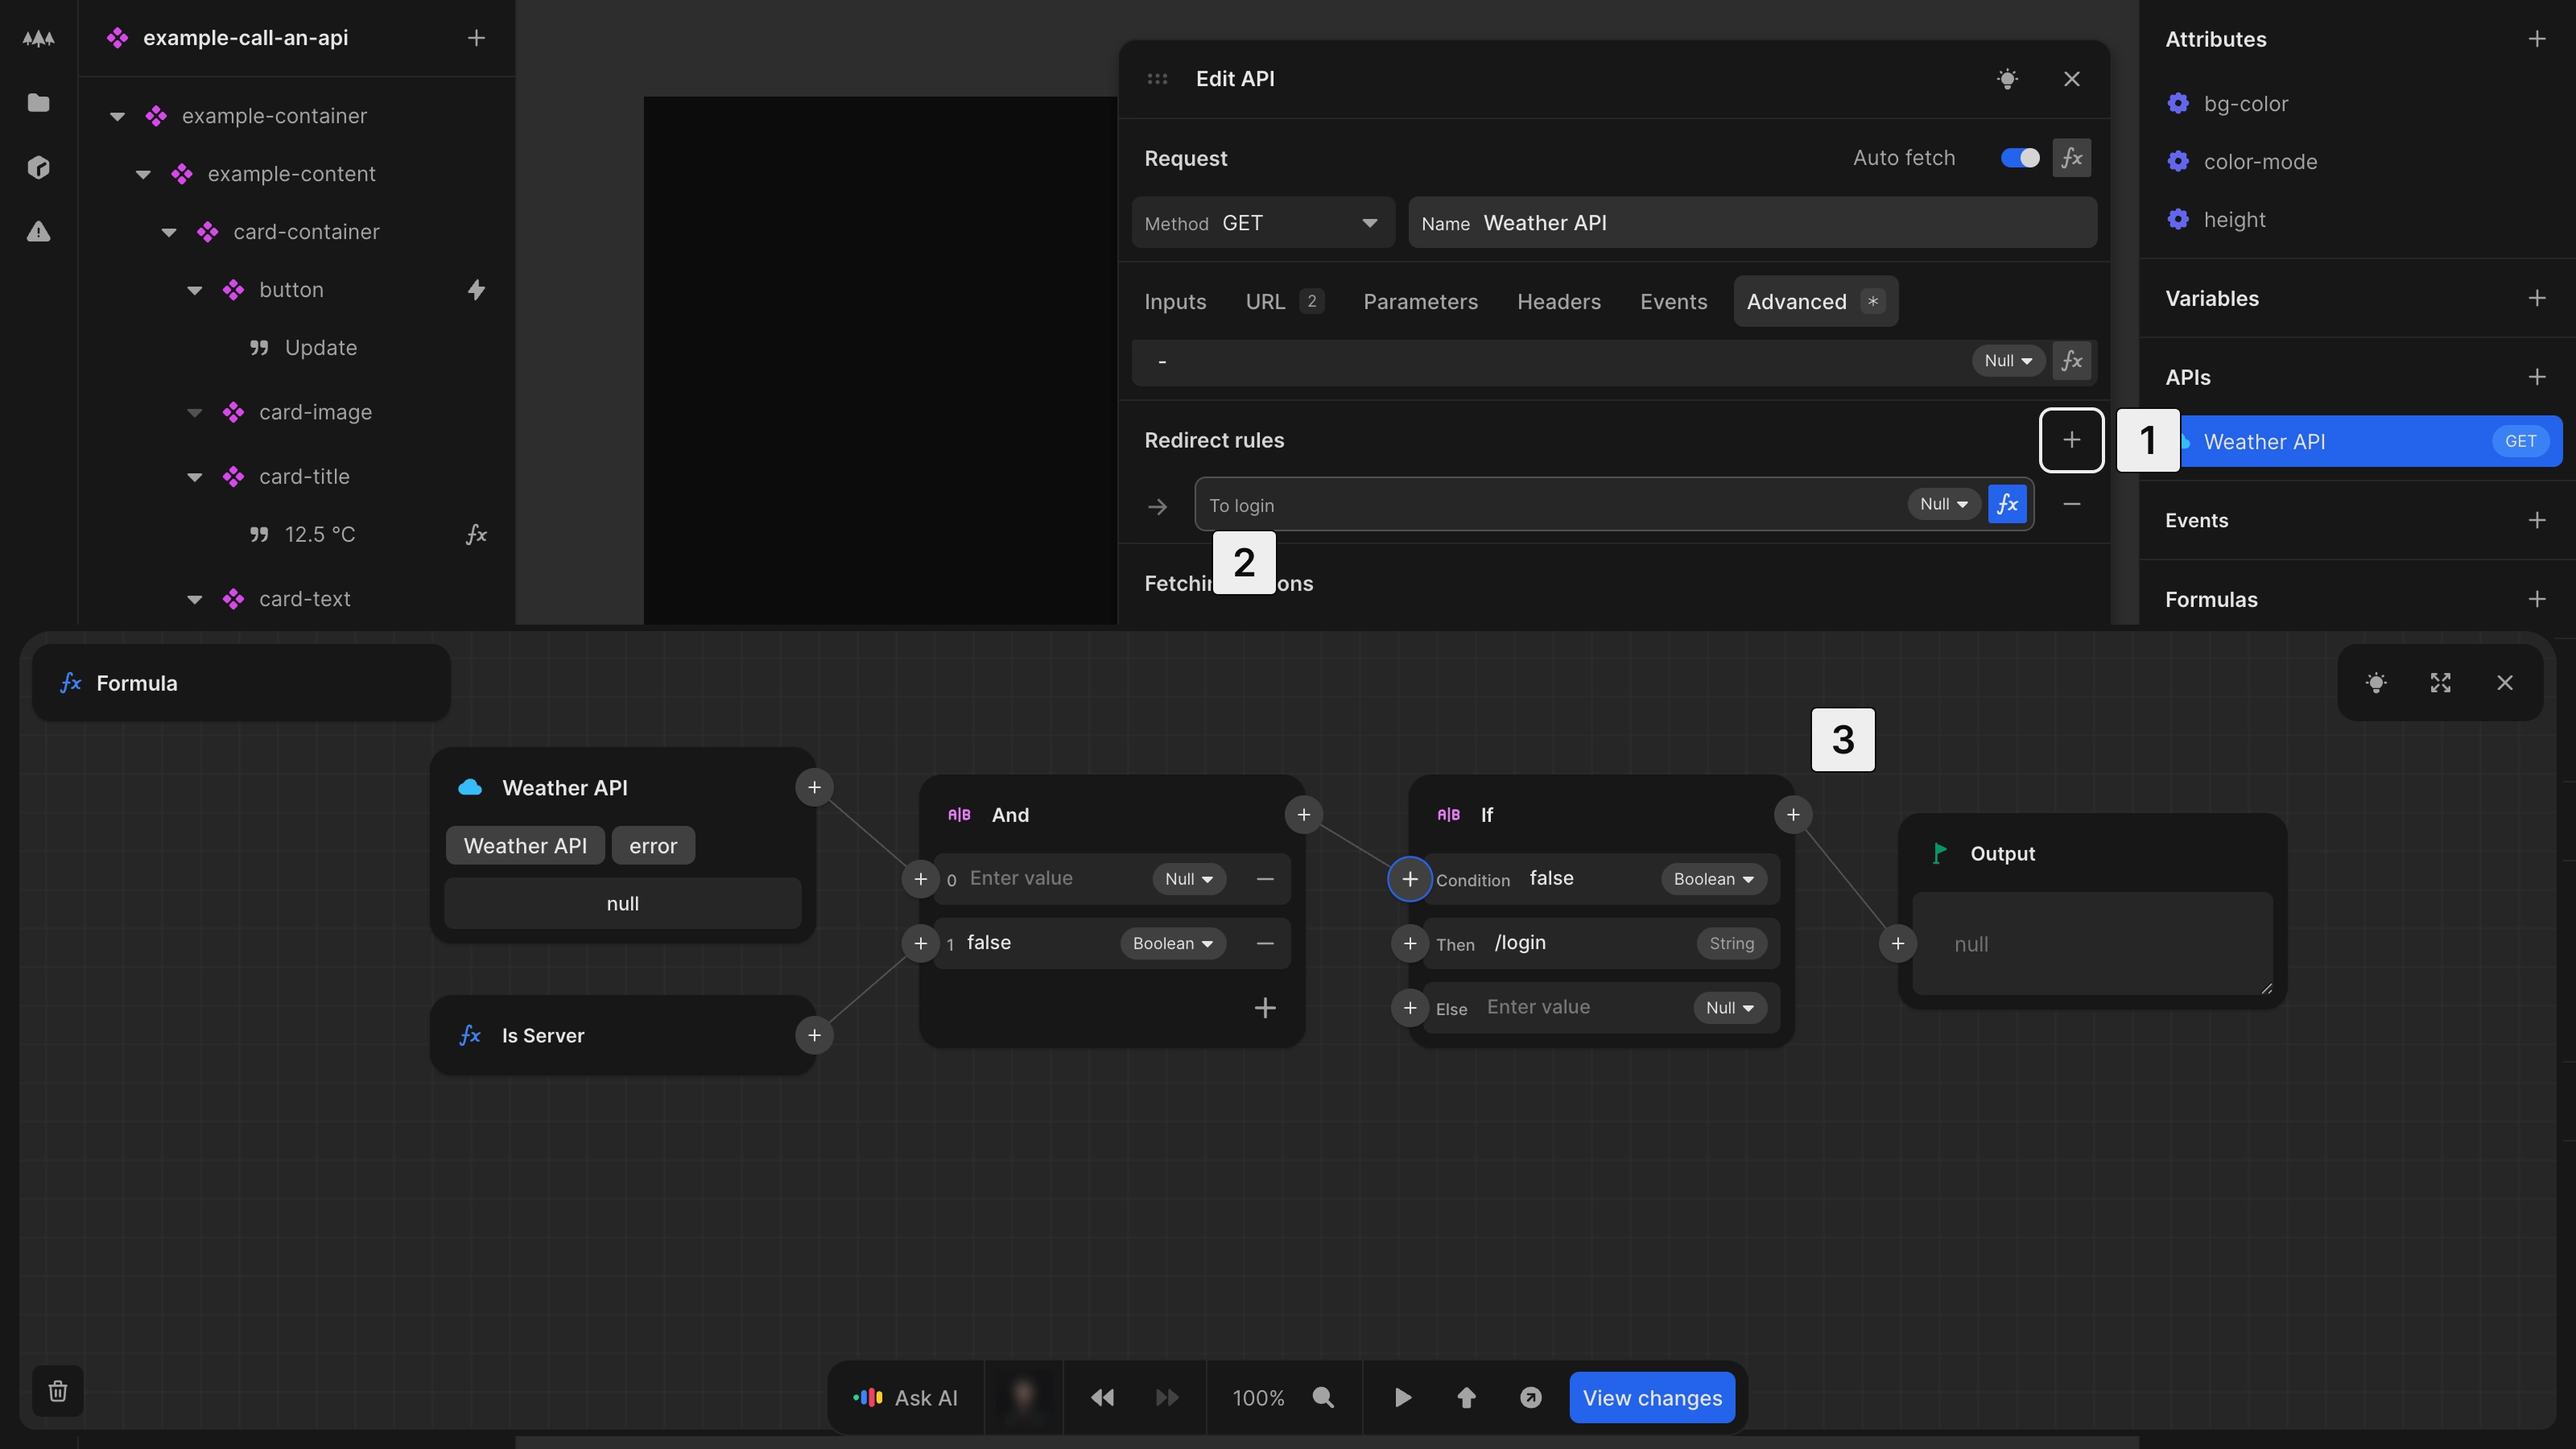
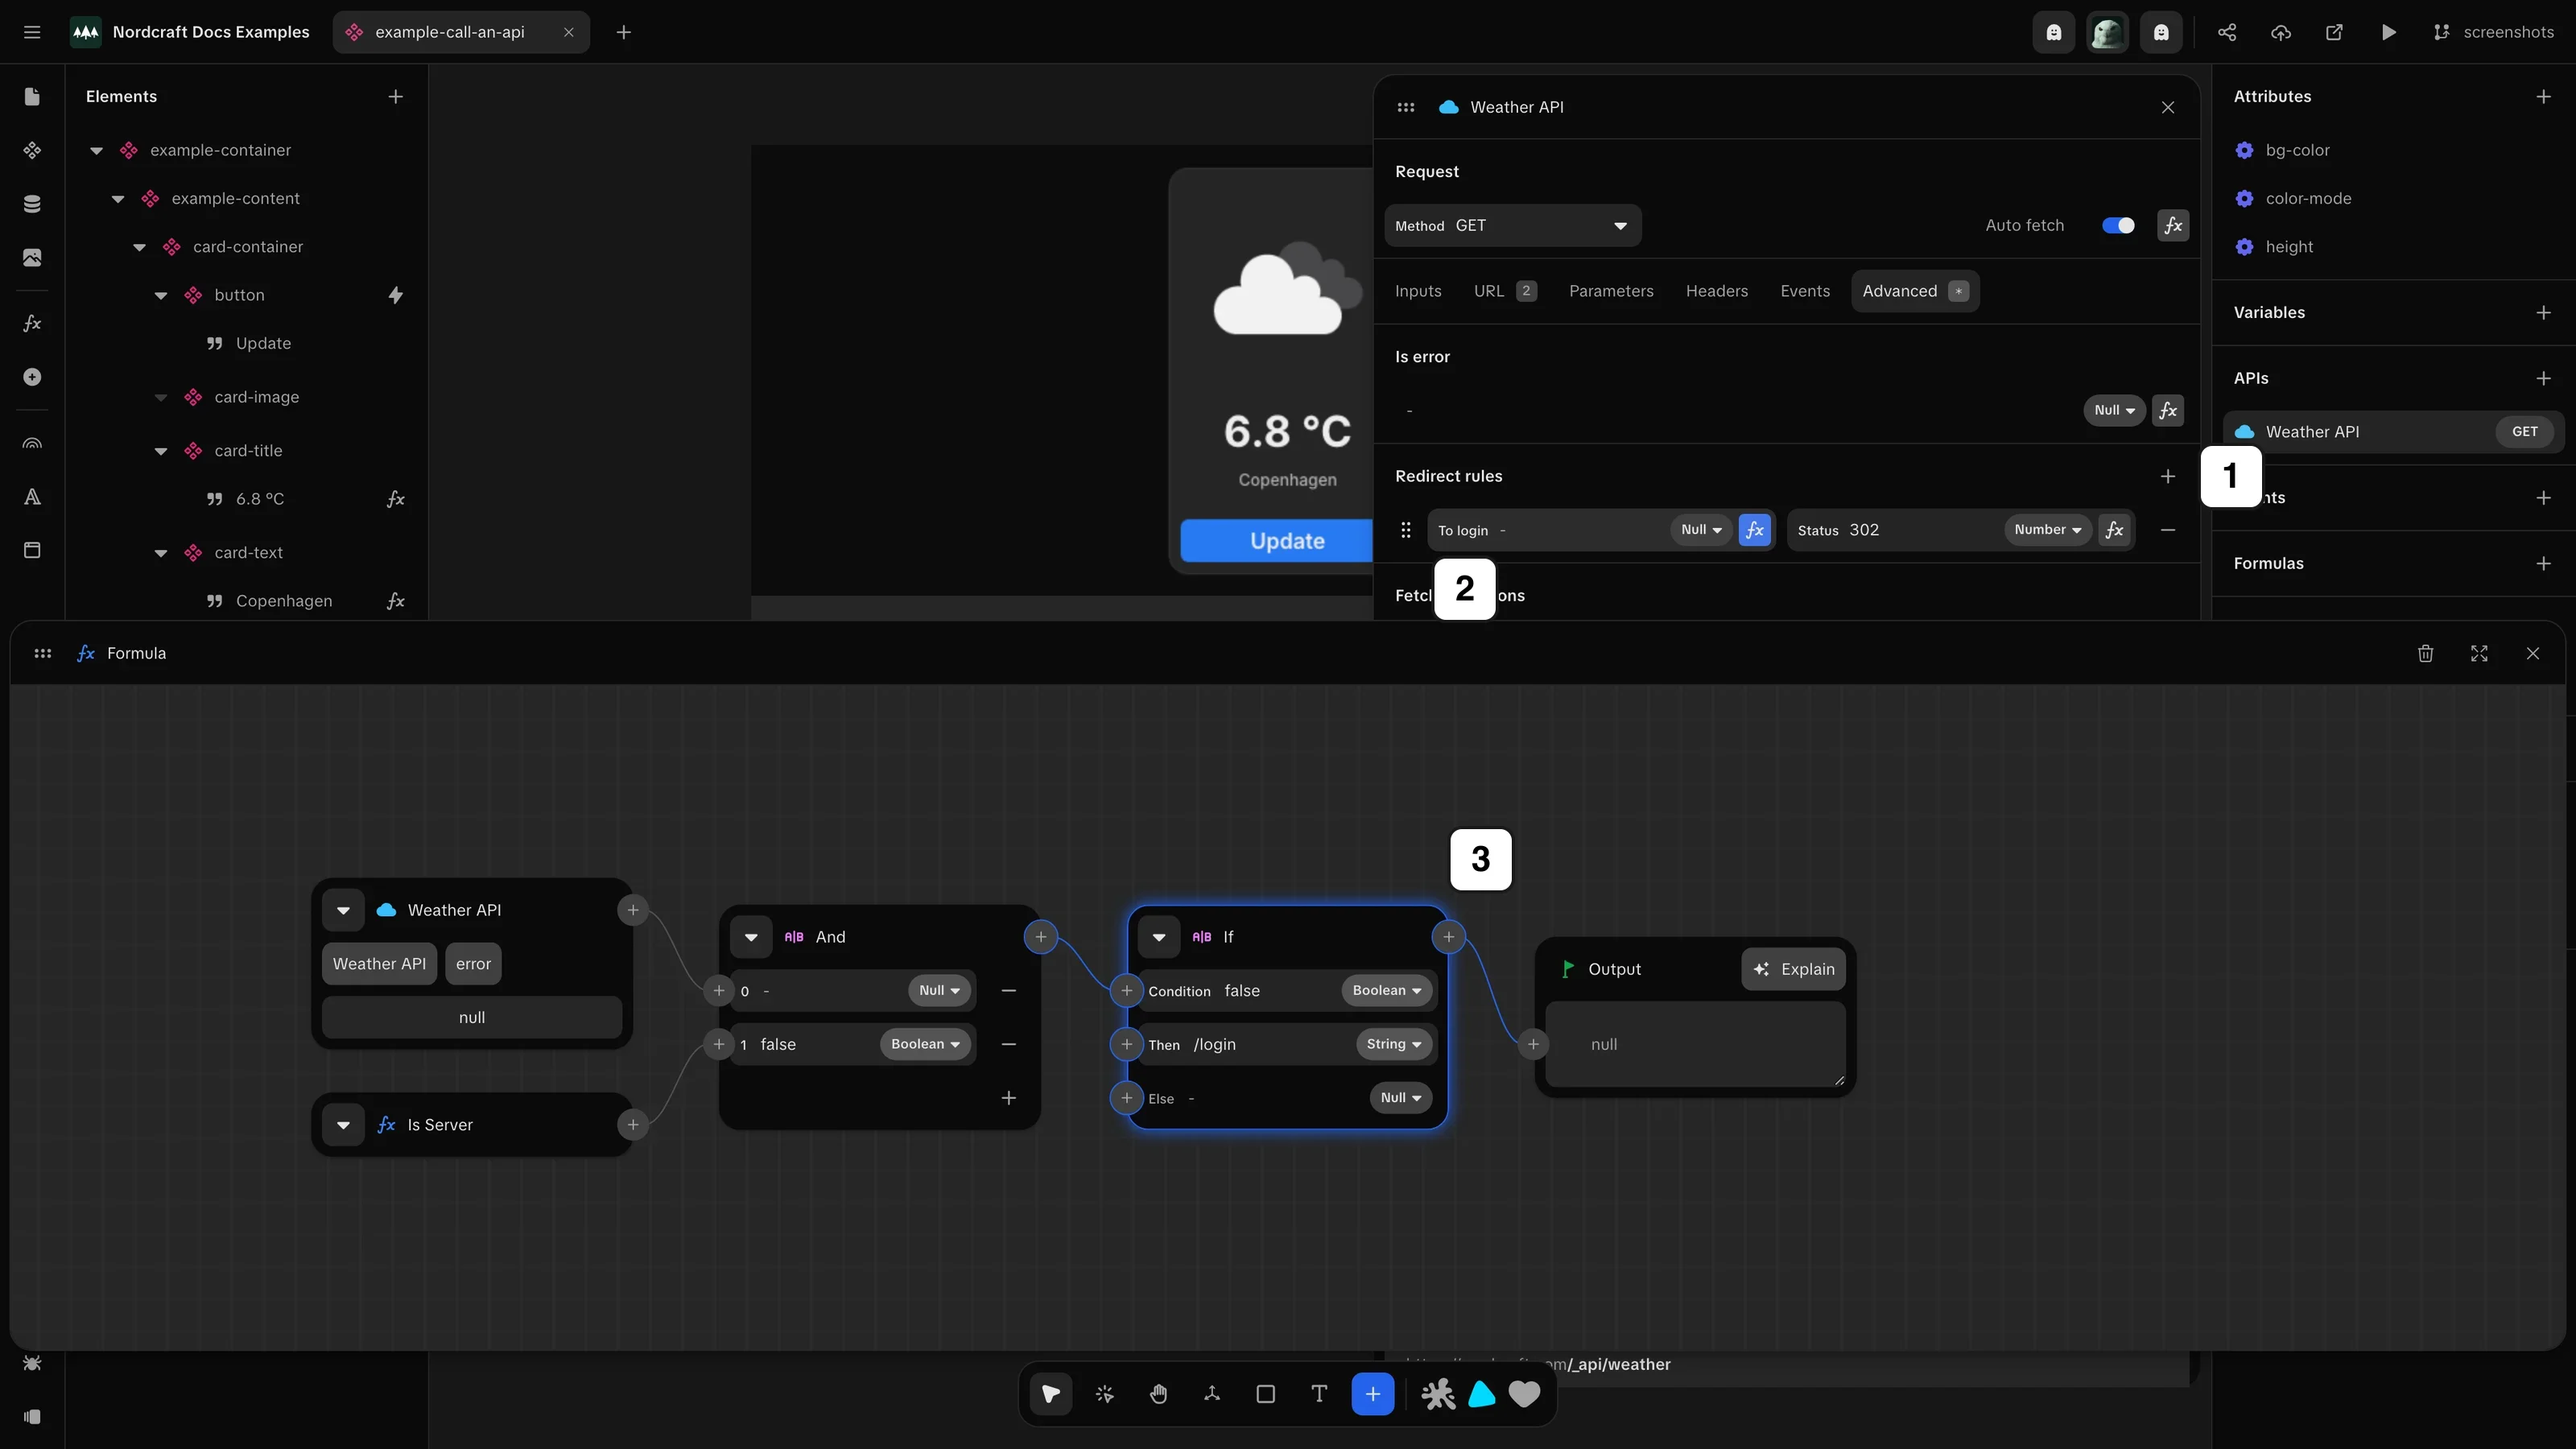
More screenshots

diff --git a/docs/connecting-data/advanced-api-features/configure-a-redirect-rule.screenshot.ts b/docs/connecting-data/advanced-api-features/configure-a-redirect-rule.screenshot.ts
@@ -1,0 +1,35 @@
+import { defineScreenshot } from '@/scripts/capture-screenshots'
+import type { Page } from 'playwright'
+
+// Placeholder script for configure-a-redirect-rule.webp
+export default defineScreenshot({
+  path: '/projects/docs_examples/branches/screenshots/components/example-call-an-api?mode=design&canvas-tool=select&canvas-width=800&selection=apis.Weather%2520API&rightpanel=events',
+  description: 'Configure a redirect rule',
+  setup: async (page: Page) => {
+    await page.waitForTimeout(500)
+    await page.getByRole('tab', { name: 'Advanced' }).click()
+    await page
+      .getByRole('button', { name: 'Edit formula for To login' })
+      .click()
+  },
+  annotations: [
+    {
+      type: 'badge',
+      x: 683,
+      y: 138,
+      text: '1',
+    },
+    {
+      type: 'badge',
+      x: 445,
+      y: 173,
+      text: '2',
+    },
+    {
+      type: 'badge',
+      x: 450,
+      y: 257,
+      text: '3',
+    },
+  ],
+})

diff --git a/scripts/mocks.ts b/scripts/mocks.ts
@@ -171,6 +171,7 @@ export async function setupPageMocks(page: Page) {
         { key: 'learn-about-media', value: 'Done' },
         { key: 'learn-about-workflows', value: 'Done' },
         { key: 'learn-about-branches', value: 'Done' },
+        { key: 'learn-about-formula-editor', value: 'Done' },
       ]),
     })
   })
